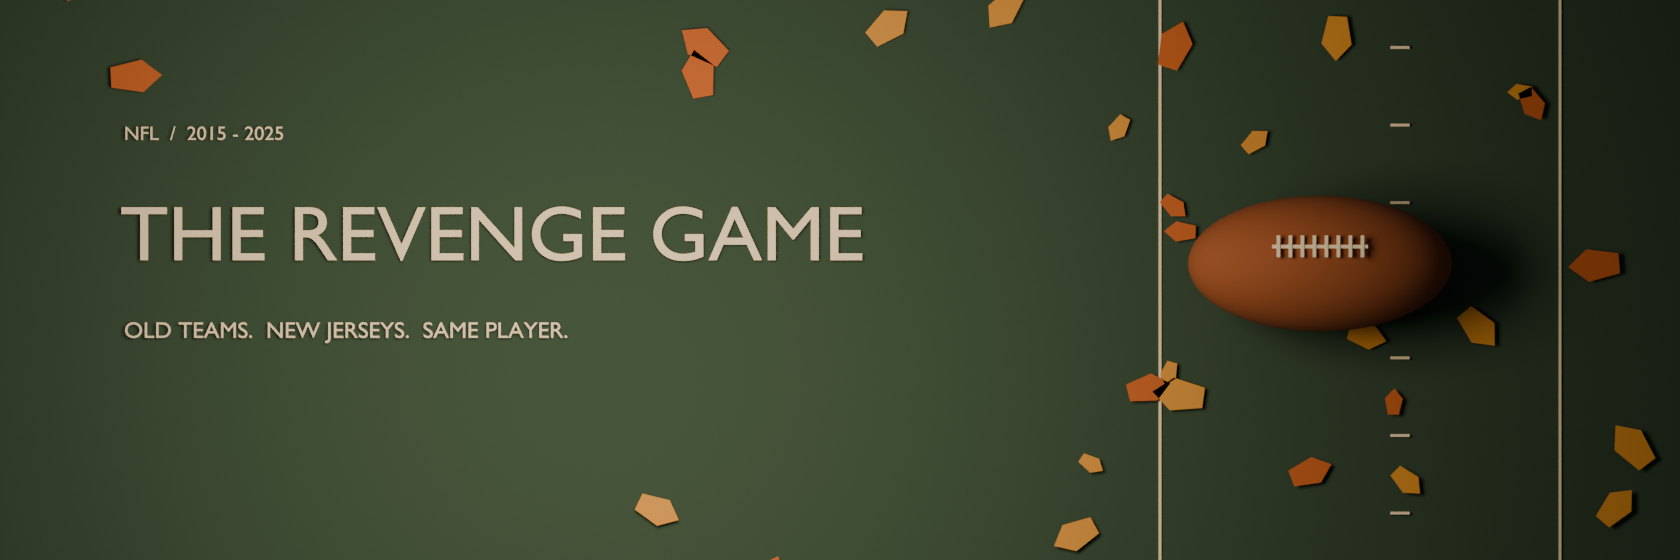
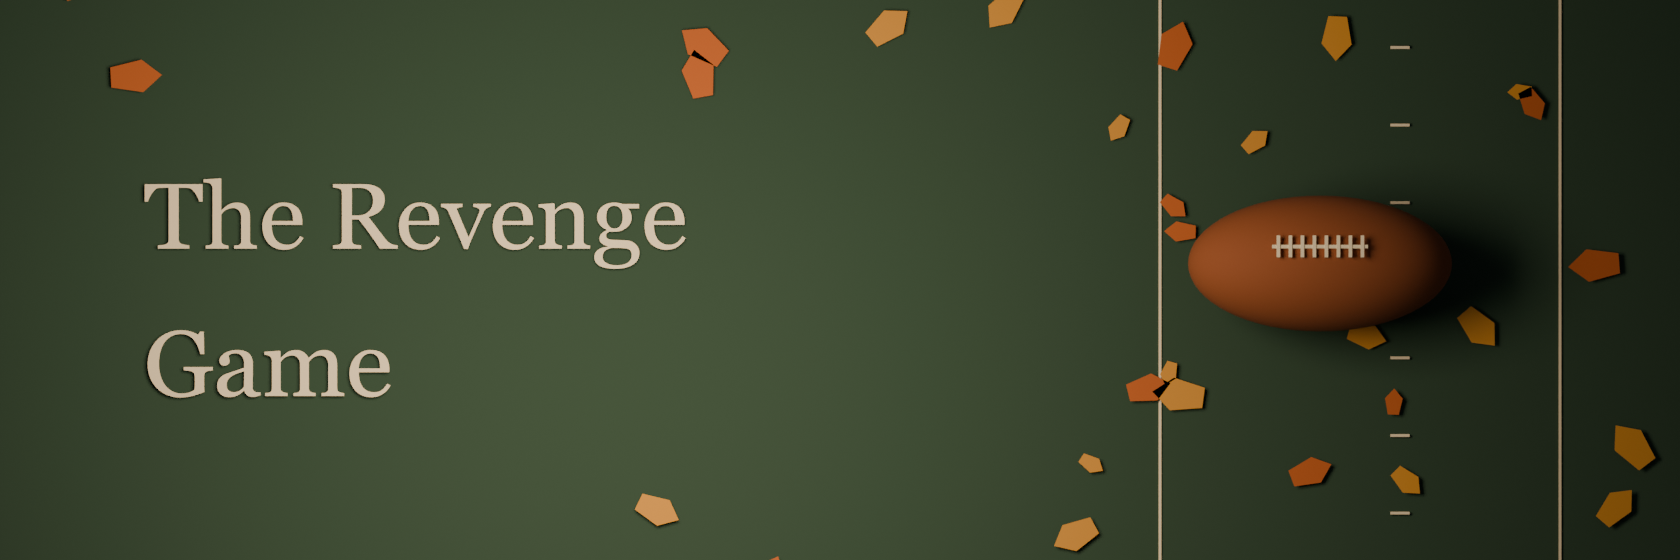
Simplify README typography and remove visual clutter

Changed region(s): [[0.0619, 0.3036, 0.5262, 0.4857], [0.0619, 0.5768, 0.3405, 0.7286], [0.0619, 0.2125, 0.1857, 0.2732]]

diff --git a/scripts/render_readme_banner.py b/scripts/render_readme_banner.py
@@ -35,10 +35,10 @@ for i in range(65):
     o=bpy.context.object; o.scale.y=1.6; o.rotation_euler.z=random.uniform(0,6.28); o.data.materials.append(random.choice(colors))
 def label(text,loc,size):
     c=bpy.data.curves.new(text,'FONT'); c.body=text; c.size=size
+    c.font=bpy.data.fonts.load('/System/Library/Fonts/Supplemental/Georgia.ttf')
     o=bpy.data.objects.new(text,c); bpy.context.collection.objects.link(o); o.location=loc; c.materials.append(ivory)
-label('THE REVENGE GAME',(-9,.25,.02),1.0)
-label('OLD TEAMS.  NEW JERSEYS.  SAME PLAYER.',(-8.95,-.75,.02),.29)
-label('NFL  /  2015 - 2025',(-8.95,1.8,.02),.25)
+label('The Revenge',(-8.7,.4,.02),1.65)
+label('Game',(-8.7,-1.5,.02),1.65)
 bpy.ops.object.light_add(type='AREA',location=(-3,-1,10))
 bpy.context.object.data.energy=1800; bpy.context.object.data.size=8; bpy.context.object.data.color=(1,.79,.55)
 bpy.ops.object.camera_add(location=(0,-5,20))

diff --git a/README.md b/README.md
@@ -1,15 +1,9 @@
 ![The Revenge Game — fall football, rendered in Blender](docs/screenshots/readme-banner.png)
 
-# The Revenge Game
+NFL players facing their former teams, 2015–2025. This project compares those
+games with each player's other appearances, accounting for recent form.
 
-Does playing your old team actually bring out your best?
-
-This project uses NFL player stats from 2015–2025 to compare how players perform
-against former teams with how those same players perform in other games. SQL and
-DuckDB handle the game histories, Python handles the statistical tests, and a local
-Streamlit dashboard lets you explore the results.
-
-## What turned up
+## Results
 
 Across **359 players, 875 revenge performances, and 23,434 non-revenge performances**,
 the average difference was **+0.067 PPR**, after subtracting each game's recent
@@ -17,7 +11,6 @@ baseline and giving every player equal weight:
 
 - **95% player-clustered bootstrap CI: −0.443 to +0.604 PPR**
 - **Two-sided player sign-flip p-value: 0.8124**
-- **No statistically distinguishable mean revenge effect was found.**
 
 There was no clear revenge-game boost. Small effects in either direction are
 still plausible, and this observational comparison cannot establish cause.
@@ -26,11 +19,7 @@ still plausible, and this observational comparison cannot establish cause.
 
 ## Run the local dashboard
 
-![Local dashboard headline](docs/screenshots/stage5_overview.jpg)
-
-The dashboard shows the overall result, position breakdowns, and individual game
-histories. The stadium image is [AI-generated](dashboard/assets/editorial-stadium.md)
-and does not depict a real NFL venue.
+Compare positions, look up a player, or inspect the games behind a baseline.
 
 From this repository, with the validated database and Stage 4 outputs already present:
 
@@ -40,10 +29,8 @@ python -m pip install -r requirements-dashboard.txt
 python -m streamlit run dashboard/app.py
 ```
 
-Open **http://127.0.0.1:8502**. You can browse the results, compare positions, or look
-up a player. Tom Brady, Matthew Stafford, Davante Adams, and Jerry Jeudy are included
-as starting examples. Select a game to see the earlier appearances used to set its
-baseline. The dashboard reads saved results and DuckDB views without changing them.
+Open [localhost:8502](http://127.0.0.1:8502). The dashboard reads saved results
+without changing them.
 
 <details>
 <summary>First-time setup and rebuilding the data</summary>
@@ -82,7 +69,7 @@ Stage 4 outputs produce an actionable dashboard message instead of invented valu
 
 ## How it works
 
-**DuckDB 1.4.4 · SQL · Python · Streamlit 1.50.0 · Altair 5.5.0 · pandas 2.3.3**
+Built with SQL, DuckDB, Python, and Streamlit.
 
 1. Clean source statistics and schedules; retain stable player and game IDs.
 2. Label a former opponent only after **four strictly earlier recorded appearances**
@@ -144,4 +131,4 @@ and [schedules](https://nflreadr.nflverse.com/reference/load_schedules.html).
 ---
 
 The dashboard runs locally; there is no hosted version.
-Banner modeled and rendered in Blender · [Render script](scripts/render_readme_banner.py)
+[Blender banner source](scripts/render_readme_banner.py).
